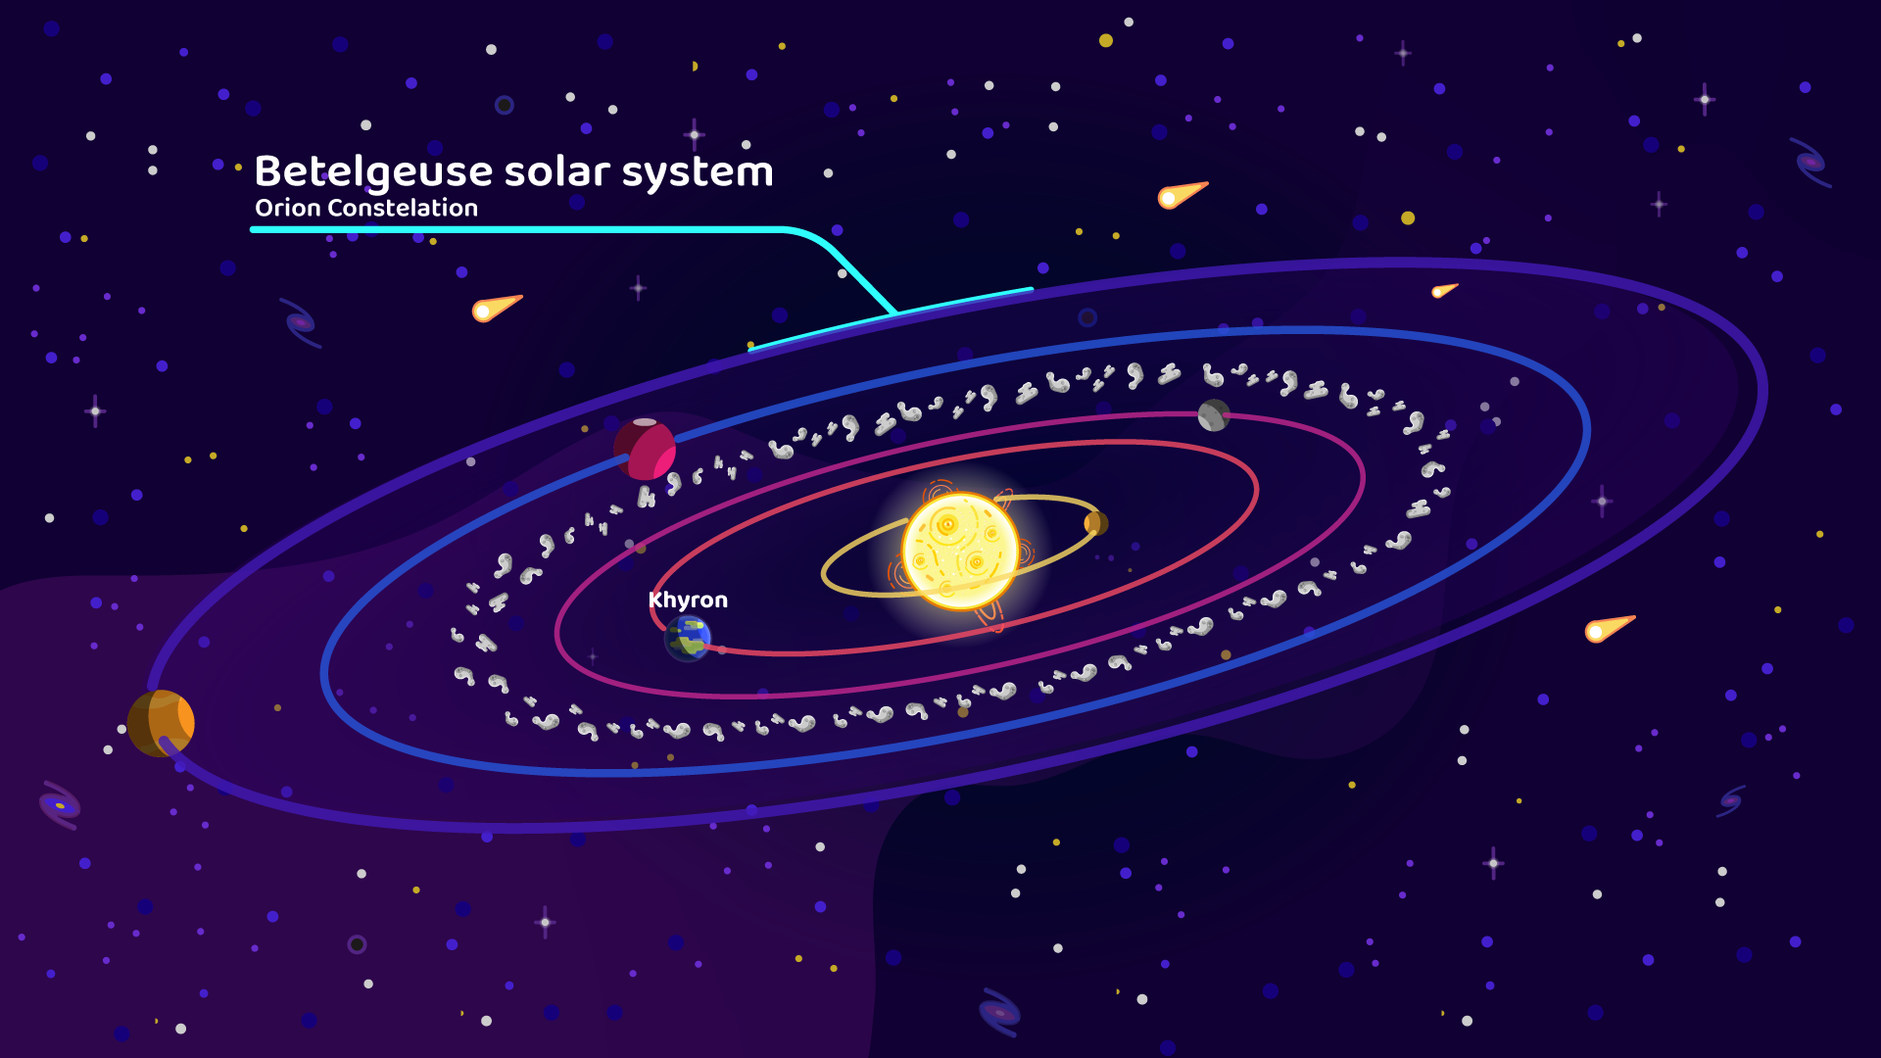
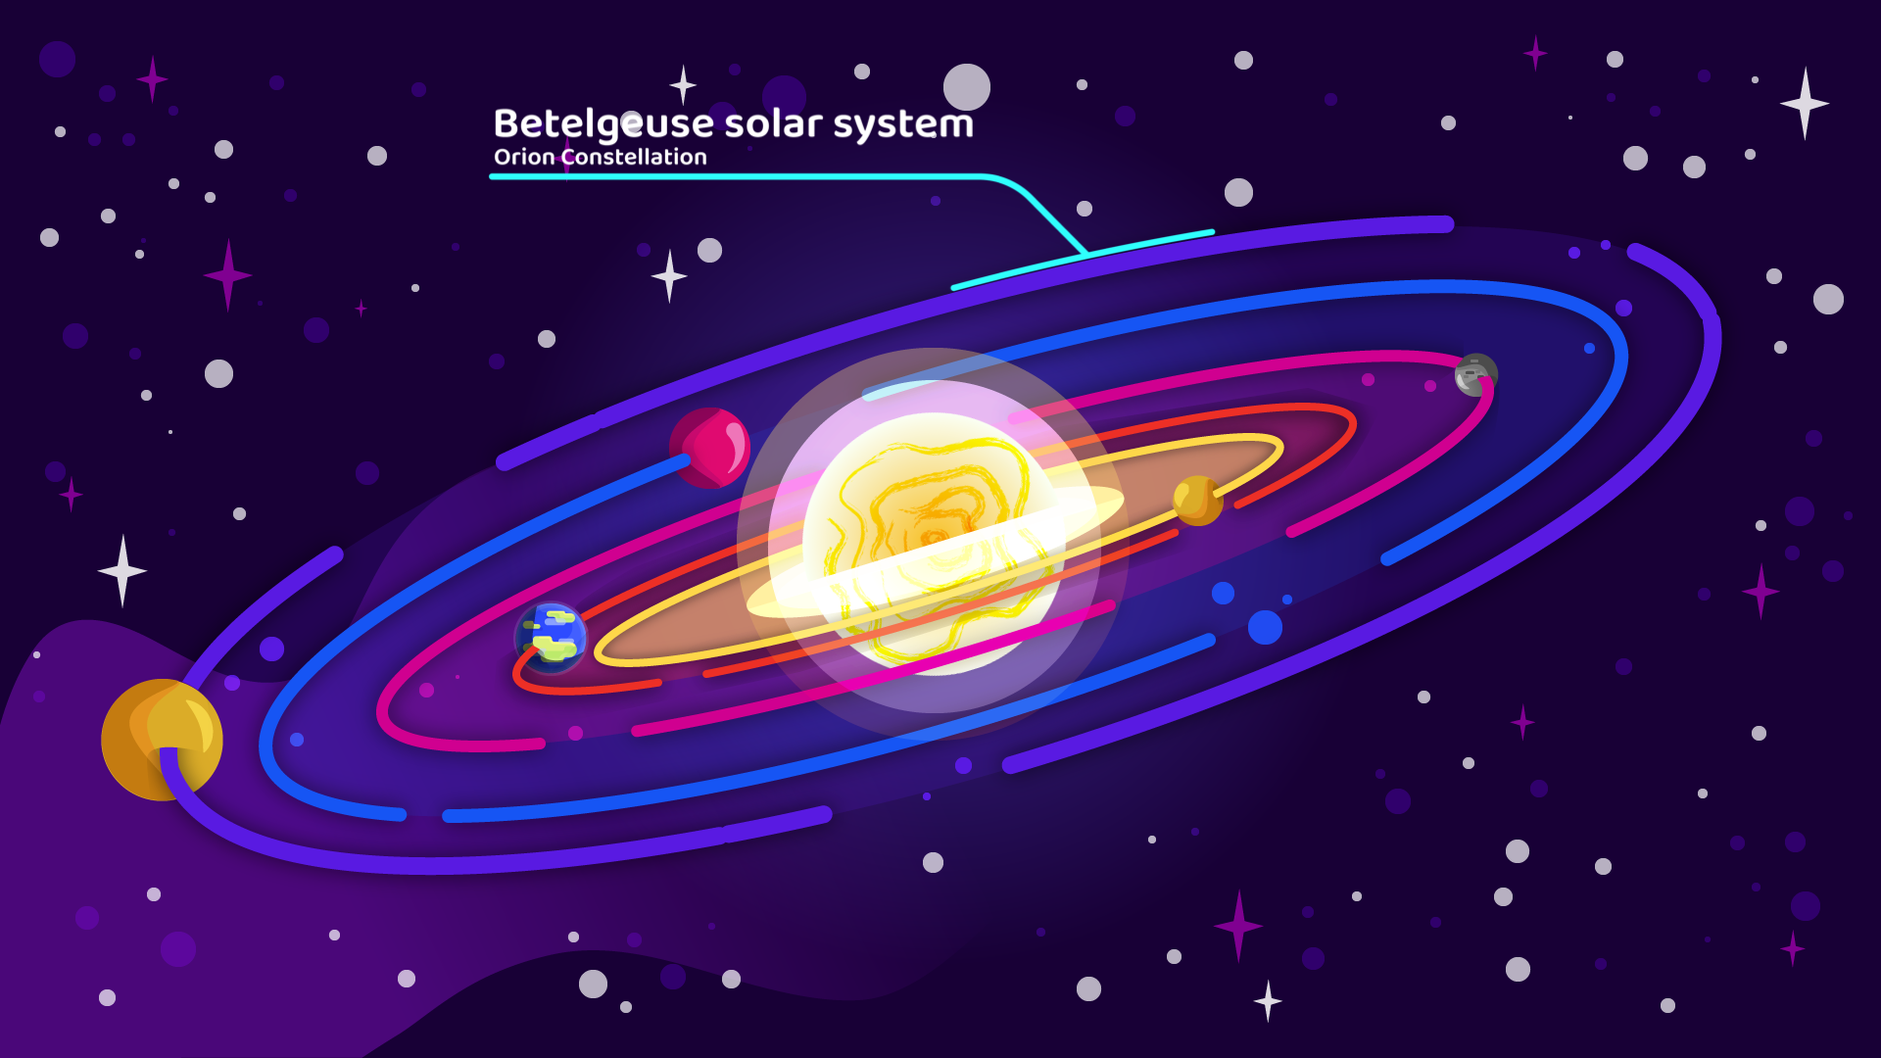
Update solar system image and blog android link

diff --git a/.docusaurus/registry.js b/.docusaurus/registry.js
@@ -1,44 +1,51 @@
 export default {
-  '01a85c17': [() => import(/* webpackChunkName: '01a85c17' */ "@theme/BlogTagsListPage"), "@theme/BlogTagsListPage", require.resolveWeak("@theme/BlogTagsListPage")],
-  '022d1785': [() => import(/* webpackChunkName: '022d1785' */ "~blog/default/blog-tags-launch-aa0.json"), "~blog/default/blog-tags-launch-aa0.json", require.resolveWeak("~blog/default/blog-tags-launch-aa0.json")],
-  '0dffb83e': [() => import(/* webpackChunkName: '0dffb83e' */ "@site/docs/roadmap.md"), "@site/docs/roadmap.md", require.resolveWeak("@site/docs/roadmap.md")],
-  '0f62993d': [() => import(/* webpackChunkName: '0f62993d' */ "@site/docs/story/arrival.md"), "@site/docs/story/arrival.md", require.resolveWeak("@site/docs/story/arrival.md")],
-  '17896441': [() => import(/* webpackChunkName: '17896441' */ "@theme/DocItem"), "@theme/DocItem", require.resolveWeak("@theme/DocItem")],
-  '18ba09e8': [() => import(/* webpackChunkName: '18ba09e8' */ "@site/docs/credits.md"), "@site/docs/credits.md", require.resolveWeak("@site/docs/credits.md")],
-  '1a97d4ef': [() => import(/* webpackChunkName: '1a97d4ef' */ "@site/docs/story/beginning.md"), "@site/docs/story/beginning.md", require.resolveWeak("@site/docs/story/beginning.md")],
-  '1be78505': [() => import(/* webpackChunkName: '1be78505' */ "@theme/DocPage"), "@theme/DocPage", require.resolveWeak("@theme/DocPage")],
-  '2275ea3b': [() => import(/* webpackChunkName: '2275ea3b' */ "@site/docs/team.md"), "@site/docs/team.md", require.resolveWeak("@site/docs/team.md")],
-  '273abc0c': [() => import(/* webpackChunkName: '273abc0c' */ "@site/blog/2021-11-29-khyron-test-version.md"), "@site/blog/2021-11-29-khyron-test-version.md", require.resolveWeak("@site/blog/2021-11-29-khyron-test-version.md")],
-  '2c44f060': [() => import(/* webpackChunkName: '2c44f060' */ "@site/blog/2021-11-29-welcome/index.md?truncated=true"), "@site/blog/2021-11-29-welcome/index.md?truncated=true", require.resolveWeak("@site/blog/2021-11-29-welcome/index.md?truncated=true")],
-  '2f643be4': [() => import(/* webpackChunkName: '2f643be4' */ "@site/docs/gameplay/mothership.md"), "@site/docs/gameplay/mothership.md", require.resolveWeak("@site/docs/gameplay/mothership.md")],
-  '30a24c52': [() => import(/* webpackChunkName: '30a24c52' */ "~blog/default/blog-tags-hello-039.json"), "~blog/default/blog-tags-hello-039.json", require.resolveWeak("~blog/default/blog-tags-hello-039.json")],
-  '36a290cd': [() => import(/* webpackChunkName: '36a290cd' */ "~blog/default/blog-tags-test-63b.json"), "~blog/default/blog-tags-test-63b.json", require.resolveWeak("~blog/default/blog-tags-test-63b.json")],
-  '420ab454': [() => import(/* webpackChunkName: '420ab454' */ "@site/blog/2021-11-29-welcome/index.md"), "@site/blog/2021-11-29-welcome/index.md", require.resolveWeak("@site/blog/2021-11-29-welcome/index.md")],
-  '577847e2': [() => import(/* webpackChunkName: '577847e2' */ "@site/blog/2021-11-29-khyron-test-version.md?truncated=true"), "@site/blog/2021-11-29-khyron-test-version.md?truncated=true", require.resolveWeak("@site/blog/2021-11-29-khyron-test-version.md?truncated=true")],
-  '5ae84af0': [() => import(/* webpackChunkName: '5ae84af0' */ "@site/docs/tokenomics.md"), "@site/docs/tokenomics.md", require.resolveWeak("@site/docs/tokenomics.md")],
-  '5e9f5e1a': [() => import(/* webpackChunkName: '5e9f5e1a' */ "@generated/docusaurus.config"), "@generated/docusaurus.config", require.resolveWeak("@generated/docusaurus.config")],
-  '6875c492': [() => import(/* webpackChunkName: '6875c492' */ "@theme/BlogTagsPostsPage"), "@theme/BlogTagsPostsPage", require.resolveWeak("@theme/BlogTagsPostsPage")],
-  '6d5f1251': [() => import(/* webpackChunkName: '6d5f1251' */ "@site/docs/gameplay/mines.md"), "@site/docs/gameplay/mines.md", require.resolveWeak("@site/docs/gameplay/mines.md")],
-  '75e96fb0': [() => import(/* webpackChunkName: '75e96fb0' */ "@site/docs/technology.md"), "@site/docs/technology.md", require.resolveWeak("@site/docs/technology.md")],
-  '7792a21f': [() => import(/* webpackChunkName: '7792a21f' */ "@site/src/pages/about.js"), "@site/src/pages/about.js", require.resolveWeak("@site/src/pages/about.js")],
-  '814f3328': [() => import(/* webpackChunkName: '814f3328' */ "~blog/default/blog-post-list-prop-default.json"), "~blog/default/blog-post-list-prop-default.json", require.resolveWeak("~blog/default/blog-post-list-prop-default.json")],
-  '82827712': [() => import(/* webpackChunkName: '82827712' */ "@site/docs/description.md"), "@site/docs/description.md", require.resolveWeak("@site/docs/description.md")],
-  '83e9e333': [() => import(/* webpackChunkName: '83e9e333' */ "@site/src/pages/contact.js"), "@site/src/pages/contact.js", require.resolveWeak("@site/src/pages/contact.js")],
-  '92bb876c': [() => import(/* webpackChunkName: '92bb876c' */ "@site/docs/getting_started.md"), "@site/docs/getting_started.md", require.resolveWeak("@site/docs/getting_started.md")],
-  '935f2afb': [() => import(/* webpackChunkName: '935f2afb' */ "~docs/default/version-current-metadata-prop-751.json"), "~docs/default/version-current-metadata-prop-751.json", require.resolveWeak("~docs/default/version-current-metadata-prop-751.json")],
-  '9e4087bc': [() => import(/* webpackChunkName: '9e4087bc' */ "@theme/BlogArchivePage"), "@theme/BlogArchivePage", require.resolveWeak("@theme/BlogArchivePage")],
-  'a6aa9e1f': [() => import(/* webpackChunkName: 'a6aa9e1f' */ "@theme/BlogListPage"), "@theme/BlogListPage", require.resolveWeak("@theme/BlogListPage")],
-  'a7023ddc': [() => import(/* webpackChunkName: 'a7023ddc' */ "~blog/default/blog-tags-tags-4c2.json"), "~blog/default/blog-tags-tags-4c2.json", require.resolveWeak("~blog/default/blog-tags-tags-4c2.json")],
-  'aceeefcc': [() => import(/* webpackChunkName: 'aceeefcc' */ "@site/docs/gameplay/spaceship.md"), "@site/docs/gameplay/spaceship.md", require.resolveWeak("@site/docs/gameplay/spaceship.md")],
-  'b150d78e': [() => import(/* webpackChunkName: 'b150d78e' */ "~blog/default/blog-tags-khyron-fd6.json"), "~blog/default/blog-tags-khyron-fd6.json", require.resolveWeak("~blog/default/blog-tags-khyron-fd6.json")],
-  'b2b675dd': [() => import(/* webpackChunkName: 'b2b675dd' */ "~blog/default/blog-c06.json"), "~blog/default/blog-c06.json", require.resolveWeak("~blog/default/blog-c06.json")],
-  'b2f554cd': [() => import(/* webpackChunkName: 'b2f554cd' */ "~blog/default/blog-archive-80c.json"), "~blog/default/blog-archive-80c.json", require.resolveWeak("~blog/default/blog-archive-80c.json")],
-  'bde4859d': [() => import(/* webpackChunkName: 'bde4859d' */ "@site/docs/story/community.md"), "@site/docs/story/community.md", require.resolveWeak("@site/docs/story/community.md")],
-  'c0a9d37e': [() => import(/* webpackChunkName: 'c0a9d37e' */ "@site/docs/gameplay/planet.md"), "@site/docs/gameplay/planet.md", require.resolveWeak("@site/docs/gameplay/planet.md")],
-  'c4f5d8e4': [() => import(/* webpackChunkName: 'c4f5d8e4' */ "@site/src/pages/index.js"), "@site/src/pages/index.js", require.resolveWeak("@site/src/pages/index.js")],
-  'ccc49370': [() => import(/* webpackChunkName: 'ccc49370' */ "@theme/BlogPostPage"), "@theme/BlogPostPage", require.resolveWeak("@theme/BlogPostPage")],
-  'cfc63492': [() => import(/* webpackChunkName: 'cfc63492' */ "@site/docs/privacy_policy.md"), "@site/docs/privacy_policy.md", require.resolveWeak("@site/docs/privacy_policy.md")],
-  'e5319af5': [() => import(/* webpackChunkName: 'e5319af5' */ "@site/docs/gameplay/game.mdx"), "@site/docs/gameplay/game.mdx", require.resolveWeak("@site/docs/gameplay/game.mdx")],
-  'f4596580': [() => import(/* webpackChunkName: 'f4596580' */ "@site/docs/terms&conditions.md"), "@site/docs/terms&conditions.md", require.resolveWeak("@site/docs/terms&conditions.md")],
-  'fac333ad': [() => import(/* webpackChunkName: 'fac333ad' */ "@site/docs/story/supplies.md"), "@site/docs/story/supplies.md", require.resolveWeak("@site/docs/story/supplies.md")],
-  'fe0242b1': [() => import(/* webpackChunkName: 'fe0242b1' */ "@site/docs/disclaimer.md"), "@site/docs/disclaimer.md", require.resolveWeak("@site/docs/disclaimer.md")],};
+  'allContent---docusaurus-debug-content-246-9aa': [() => import(/* webpackChunkName: 'allContent---docusaurus-debug-content-246-9aa' */ "~debug/default/docusaurus-debug-all-content-673.json"), "~debug/default/docusaurus-debug-all-content-673.json", require.resolveWeak("~debug/default/docusaurus-debug-all-content-673.json")],
+  'archive---blog-archiveb-2-f-393': [() => import(/* webpackChunkName: 'archive---blog-archiveb-2-f-393' */ "~blog/default/blog-archive-80c.json"), "~blog/default/blog-archive-80c.json", require.resolveWeak("~blog/default/blog-archive-80c.json")],
+  'component---site-src-pages-about-js-779-319': [() => import(/* webpackChunkName: 'component---site-src-pages-about-js-779-319' */ "@site/src/pages/about.js"), "@site/src/pages/about.js", require.resolveWeak("@site/src/pages/about.js")],
+  'component---site-src-pages-contact-js-83-e-320': [() => import(/* webpackChunkName: 'component---site-src-pages-contact-js-83-e-320' */ "@site/src/pages/contact.js"), "@site/src/pages/contact.js", require.resolveWeak("@site/src/pages/contact.js")],
+  'component---site-src-pages-index-jsc-4-f-f99': [() => import(/* webpackChunkName: 'component---site-src-pages-index-jsc-4-f-f99' */ "@site/src/pages/index.js"), "@site/src/pages/index.js", require.resolveWeak("@site/src/pages/index.js")],
+  'component---theme-blog-archive-page-9-e-4-1d8': [() => import(/* webpackChunkName: 'component---theme-blog-archive-page-9-e-4-1d8' */ "@theme/BlogArchivePage"), "@theme/BlogArchivePage", require.resolveWeak("@theme/BlogArchivePage")],
+  'component---theme-blog-list-pagea-6-a-7ba': [() => import(/* webpackChunkName: 'component---theme-blog-list-pagea-6-a-7ba' */ "@theme/BlogListPage"), "@theme/BlogListPage", require.resolveWeak("@theme/BlogListPage")],
+  'component---theme-blog-post-pageccc-cab': [() => import(/* webpackChunkName: 'component---theme-blog-post-pageccc-cab' */ "@theme/BlogPostPage"), "@theme/BlogPostPage", require.resolveWeak("@theme/BlogPostPage")],
+  'component---theme-blog-tags-list-page-01-a-d0b': [() => import(/* webpackChunkName: 'component---theme-blog-tags-list-page-01-a-d0b' */ "@theme/BlogTagsListPage"), "@theme/BlogTagsListPage", require.resolveWeak("@theme/BlogTagsListPage")],
+  'component---theme-blog-tags-posts-page-687-b6c': [() => import(/* webpackChunkName: 'component---theme-blog-tags-posts-page-687-b6c' */ "@theme/BlogTagsPostsPage"), "@theme/BlogTagsPostsPage", require.resolveWeak("@theme/BlogTagsPostsPage")],
+  'component---theme-debug-config-23-a-2ff': [() => import(/* webpackChunkName: 'component---theme-debug-config-23-a-2ff' */ "@theme/DebugConfig"), "@theme/DebugConfig", require.resolveWeak("@theme/DebugConfig")],
+  'component---theme-debug-contentba-8-ce7': [() => import(/* webpackChunkName: 'component---theme-debug-contentba-8-ce7' */ "@theme/DebugContent"), "@theme/DebugContent", require.resolveWeak("@theme/DebugContent")],
+  'component---theme-debug-global-dataede-0fa': [() => import(/* webpackChunkName: 'component---theme-debug-global-dataede-0fa' */ "@theme/DebugGlobalData"), "@theme/DebugGlobalData", require.resolveWeak("@theme/DebugGlobalData")],
+  'component---theme-debug-registry-679-501': [() => import(/* webpackChunkName: 'component---theme-debug-registry-679-501' */ "@theme/DebugRegistry"), "@theme/DebugRegistry", require.resolveWeak("@theme/DebugRegistry")],
+  'component---theme-debug-routes-946-699': [() => import(/* webpackChunkName: 'component---theme-debug-routes-946-699' */ "@theme/DebugRoutes"), "@theme/DebugRoutes", require.resolveWeak("@theme/DebugRoutes")],
+  'component---theme-debug-site-metadata-68-e-3d4': [() => import(/* webpackChunkName: 'component---theme-debug-site-metadata-68-e-3d4' */ "@theme/DebugSiteMetadata"), "@theme/DebugSiteMetadata", require.resolveWeak("@theme/DebugSiteMetadata")],
+  'component---theme-doc-item-178-a40': [() => import(/* webpackChunkName: 'component---theme-doc-item-178-a40' */ "@theme/DocItem"), "@theme/DocItem", require.resolveWeak("@theme/DocItem")],
+  'component---theme-doc-page-1-be-9be': [() => import(/* webpackChunkName: 'component---theme-doc-page-1-be-9be' */ "@theme/DocPage"), "@theme/DocPage", require.resolveWeak("@theme/DocPage")],
+  'config---about-5-e-9-bcb': [() => import(/* webpackChunkName: 'config---about-5-e-9-bcb' */ "@generated/docusaurus.config"), "@generated/docusaurus.config", require.resolveWeak("@generated/docusaurus.config")],
+  'content---blog-2-c-4-80a': [() => import(/* webpackChunkName: 'content---blog-2-c-4-80a' */ "@site/blog/2021-11-29-welcome/index.md?truncated=true"), "@site/blog/2021-11-29-welcome/index.md?truncated=true", require.resolveWeak("@site/blog/2021-11-29-welcome/index.md?truncated=true")],
+  'content---blog-577-4a6': [() => import(/* webpackChunkName: 'content---blog-577-4a6' */ "@site/blog/2021-11-29-khyron-test-version.md?truncated=true"), "@site/blog/2021-11-29-khyron-test-version.md?truncated=true", require.resolveWeak("@site/blog/2021-11-29-khyron-test-version.md?truncated=true")],
+  'content---blog-khyron-test-version-273-e0d': [() => import(/* webpackChunkName: 'content---blog-khyron-test-version-273-e0d' */ "@site/blog/2021-11-29-khyron-test-version.md"), "@site/blog/2021-11-29-khyron-test-version.md", require.resolveWeak("@site/blog/2021-11-29-khyron-test-version.md")],
+  'content---blog-welcome-420-458': [() => import(/* webpackChunkName: 'content---blog-welcome-420-458' */ "@site/blog/2021-11-29-welcome/index.md"), "@site/blog/2021-11-29-welcome/index.md", require.resolveWeak("@site/blog/2021-11-29-welcome/index.md")],
+  'content---docs-credits-18-b-aaf': [() => import(/* webpackChunkName: 'content---docs-credits-18-b-aaf' */ "@site/docs/credits.md"), "@site/docs/credits.md", require.resolveWeak("@site/docs/credits.md")],
+  'content---docs-description-828-19e': [() => import(/* webpackChunkName: 'content---docs-description-828-19e' */ "@site/docs/description.md"), "@site/docs/description.md", require.resolveWeak("@site/docs/description.md")],
+  'content---docs-disclaimerfe-0-b76': [() => import(/* webpackChunkName: 'content---docs-disclaimerfe-0-b76' */ "@site/docs/disclaimer.md"), "@site/docs/disclaimer.md", require.resolveWeak("@site/docs/disclaimer.md")],
+  'content---docs-gameplay-gamee-53-1b9': [() => import(/* webpackChunkName: 'content---docs-gameplay-gamee-53-1b9' */ "@site/docs/gameplay/game.mdx"), "@site/docs/gameplay/game.mdx", require.resolveWeak("@site/docs/gameplay/game.mdx")],
+  'content---docs-gameplay-mines-6-d-5-726': [() => import(/* webpackChunkName: 'content---docs-gameplay-mines-6-d-5-726' */ "@site/docs/gameplay/mines.md"), "@site/docs/gameplay/mines.md", require.resolveWeak("@site/docs/gameplay/mines.md")],
+  'content---docs-gameplay-mothership-2-f-6-9ce': [() => import(/* webpackChunkName: 'content---docs-gameplay-mothership-2-f-6-9ce' */ "@site/docs/gameplay/mothership.md"), "@site/docs/gameplay/mothership.md", require.resolveWeak("@site/docs/gameplay/mothership.md")],
+  'content---docs-gameplay-planetc-0-a-921': [() => import(/* webpackChunkName: 'content---docs-gameplay-planetc-0-a-921' */ "@site/docs/gameplay/planet.md"), "@site/docs/gameplay/planet.md", require.resolveWeak("@site/docs/gameplay/planet.md")],
+  'content---docs-gameplay-spaceshipace-aca': [() => import(/* webpackChunkName: 'content---docs-gameplay-spaceshipace-aca' */ "@site/docs/gameplay/spaceship.md"), "@site/docs/gameplay/spaceship.md", require.resolveWeak("@site/docs/gameplay/spaceship.md")],
+  'content---docs-getting-started-92-b-042': [() => import(/* webpackChunkName: 'content---docs-getting-started-92-b-042' */ "@site/docs/getting_started.md"), "@site/docs/getting_started.md", require.resolveWeak("@site/docs/getting_started.md")],
+  'content---docs-privacy-policycfc-f1b': [() => import(/* webpackChunkName: 'content---docs-privacy-policycfc-f1b' */ "@site/docs/privacy_policy.md"), "@site/docs/privacy_policy.md", require.resolveWeak("@site/docs/privacy_policy.md")],
+  'content---docs-roadmap-0-df-a69': [() => import(/* webpackChunkName: 'content---docs-roadmap-0-df-a69' */ "@site/docs/roadmap.md"), "@site/docs/roadmap.md", require.resolveWeak("@site/docs/roadmap.md")],
+  'content---docs-story-arrival-0-f-6-4b2': [() => import(/* webpackChunkName: 'content---docs-story-arrival-0-f-6-4b2' */ "@site/docs/story/arrival.md"), "@site/docs/story/arrival.md", require.resolveWeak("@site/docs/story/arrival.md")],
+  'content---docs-story-beginning-1-a-9-19e': [() => import(/* webpackChunkName: 'content---docs-story-beginning-1-a-9-19e' */ "@site/docs/story/beginning.md"), "@site/docs/story/beginning.md", require.resolveWeak("@site/docs/story/beginning.md")],
+  'content---docs-story-communitybde-45d': [() => import(/* webpackChunkName: 'content---docs-story-communitybde-45d' */ "@site/docs/story/community.md"), "@site/docs/story/community.md", require.resolveWeak("@site/docs/story/community.md")],
+  'content---docs-story-suppliesfac-aad': [() => import(/* webpackChunkName: 'content---docs-story-suppliesfac-aad' */ "@site/docs/story/supplies.md"), "@site/docs/story/supplies.md", require.resolveWeak("@site/docs/story/supplies.md")],
+  'content---docs-team-227-738': [() => import(/* webpackChunkName: 'content---docs-team-227-738' */ "@site/docs/team.md"), "@site/docs/team.md", require.resolveWeak("@site/docs/team.md")],
+  'content---docs-technology-75-e-b87': [() => import(/* webpackChunkName: 'content---docs-technology-75-e-b87' */ "@site/docs/technology.md"), "@site/docs/technology.md", require.resolveWeak("@site/docs/technology.md")],
+  'content---docs-terms-conditionsf-45-c09': [() => import(/* webpackChunkName: 'content---docs-terms-conditionsf-45-c09' */ "@site/docs/terms&conditions.md"), "@site/docs/terms&conditions.md", require.resolveWeak("@site/docs/terms&conditions.md")],
+  'content---docs-tokenomics-5-ae-0fd': [() => import(/* webpackChunkName: 'content---docs-tokenomics-5-ae-0fd' */ "@site/docs/tokenomics.md"), "@site/docs/tokenomics.md", require.resolveWeak("@site/docs/tokenomics.md")],
+  'metadata---blog-tags-hello-30-a-bed': [() => import(/* webpackChunkName: 'metadata---blog-tags-hello-30-a-bed' */ "~blog/default/blog-tags-hello-039.json"), "~blog/default/blog-tags-hello-039.json", require.resolveWeak("~blog/default/blog-tags-hello-039.json")],
+  'metadata---blog-tags-khyronb-15-d0b': [() => import(/* webpackChunkName: 'metadata---blog-tags-khyronb-15-d0b' */ "~blog/default/blog-tags-khyron-fd6.json"), "~blog/default/blog-tags-khyron-fd6.json", require.resolveWeak("~blog/default/blog-tags-khyron-fd6.json")],
+  'metadata---blog-tags-launch-022-c4a': [() => import(/* webpackChunkName: 'metadata---blog-tags-launch-022-c4a' */ "~blog/default/blog-tags-launch-aa0.json"), "~blog/default/blog-tags-launch-aa0.json", require.resolveWeak("~blog/default/blog-tags-launch-aa0.json")],
+  'metadata---blog-tags-test-36-a-30f': [() => import(/* webpackChunkName: 'metadata---blog-tags-test-36-a-30f' */ "~blog/default/blog-tags-test-63b.json"), "~blog/default/blog-tags-test-63b.json", require.resolveWeak("~blog/default/blog-tags-test-63b.json")],
+  'metadata---blogb-2-b-df1': [() => import(/* webpackChunkName: 'metadata---blogb-2-b-df1' */ "~blog/default/blog-c06.json"), "~blog/default/blog-c06.json", require.resolveWeak("~blog/default/blog-c06.json")],
+  'sidebar---blog-814-8ac': [() => import(/* webpackChunkName: 'sidebar---blog-814-8ac' */ "~blog/default/blog-post-list-prop-default.json"), "~blog/default/blog-post-list-prop-default.json", require.resolveWeak("~blog/default/blog-post-list-prop-default.json")],
+  'tags---blog-tagsa-70-da2': [() => import(/* webpackChunkName: 'tags---blog-tagsa-70-da2' */ "~blog/default/blog-tags-tags-4c2.json"), "~blog/default/blog-tags-tags-4c2.json", require.resolveWeak("~blog/default/blog-tags-tags-4c2.json")],
+  'versionMetadata---docs-935-398': [() => import(/* webpackChunkName: 'versionMetadata---docs-935-398' */ "~docs/default/version-current-metadata-prop-751.json"), "~docs/default/version-current-metadata-prop-751.json", require.resolveWeak("~docs/default/version-current-metadata-prop-751.json")],};

diff --git a/.docusaurus/routes.js b/.docusaurus/routes.js
@@ -4,6 +4,41 @@ import ComponentCreator from '@docusaurus/ComponentCreator';
 
 export default [
   {
+    path: '/__docusaurus/debug',
+    component: ComponentCreator('/__docusaurus/debug','3d6'),
+    exact: true
+  },
+  {
+    path: '/__docusaurus/debug/config',
+    component: ComponentCreator('/__docusaurus/debug/config','914'),
+    exact: true
+  },
+  {
+    path: '/__docusaurus/debug/content',
+    component: ComponentCreator('/__docusaurus/debug/content','c28'),
+    exact: true
+  },
+  {
+    path: '/__docusaurus/debug/globalData',
+    component: ComponentCreator('/__docusaurus/debug/globalData','3cf'),
+    exact: true
+  },
+  {
+    path: '/__docusaurus/debug/metadata',
+    component: ComponentCreator('/__docusaurus/debug/metadata','31b'),
+    exact: true
+  },
+  {
+    path: '/__docusaurus/debug/registry',
+    component: ComponentCreator('/__docusaurus/debug/registry','0da'),
+    exact: true
+  },
+  {
+    path: '/__docusaurus/debug/routes',
+    component: ComponentCreator('/__docusaurus/debug/routes','244'),
+    exact: true
+  },
+  {
     path: '/about',
     component: ComponentCreator('/about','239'),
     exact: true

diff --git a/.docusaurus/client-modules.js b/.docusaurus/client-modules.js
@@ -1,5 +1,4 @@
 export default [
-  require("/Users/alex_grigoras/Documents/GitHub/game-website/node_modules/@docusaurus/plugin-google-gtag/lib/gtag"),
   require("/Users/alex_grigoras/Documents/GitHub/game-website/node_modules/infima/dist/css/default/default.css"),
   require("/Users/alex_grigoras/Documents/GitHub/game-website/node_modules/@docusaurus/theme-classic/lib/prism-include-languages"),
   require("/Users/alex_grigoras/Documents/GitHub/game-website/node_modules/@docusaurus/theme-classic/lib/admonitions.css"),
